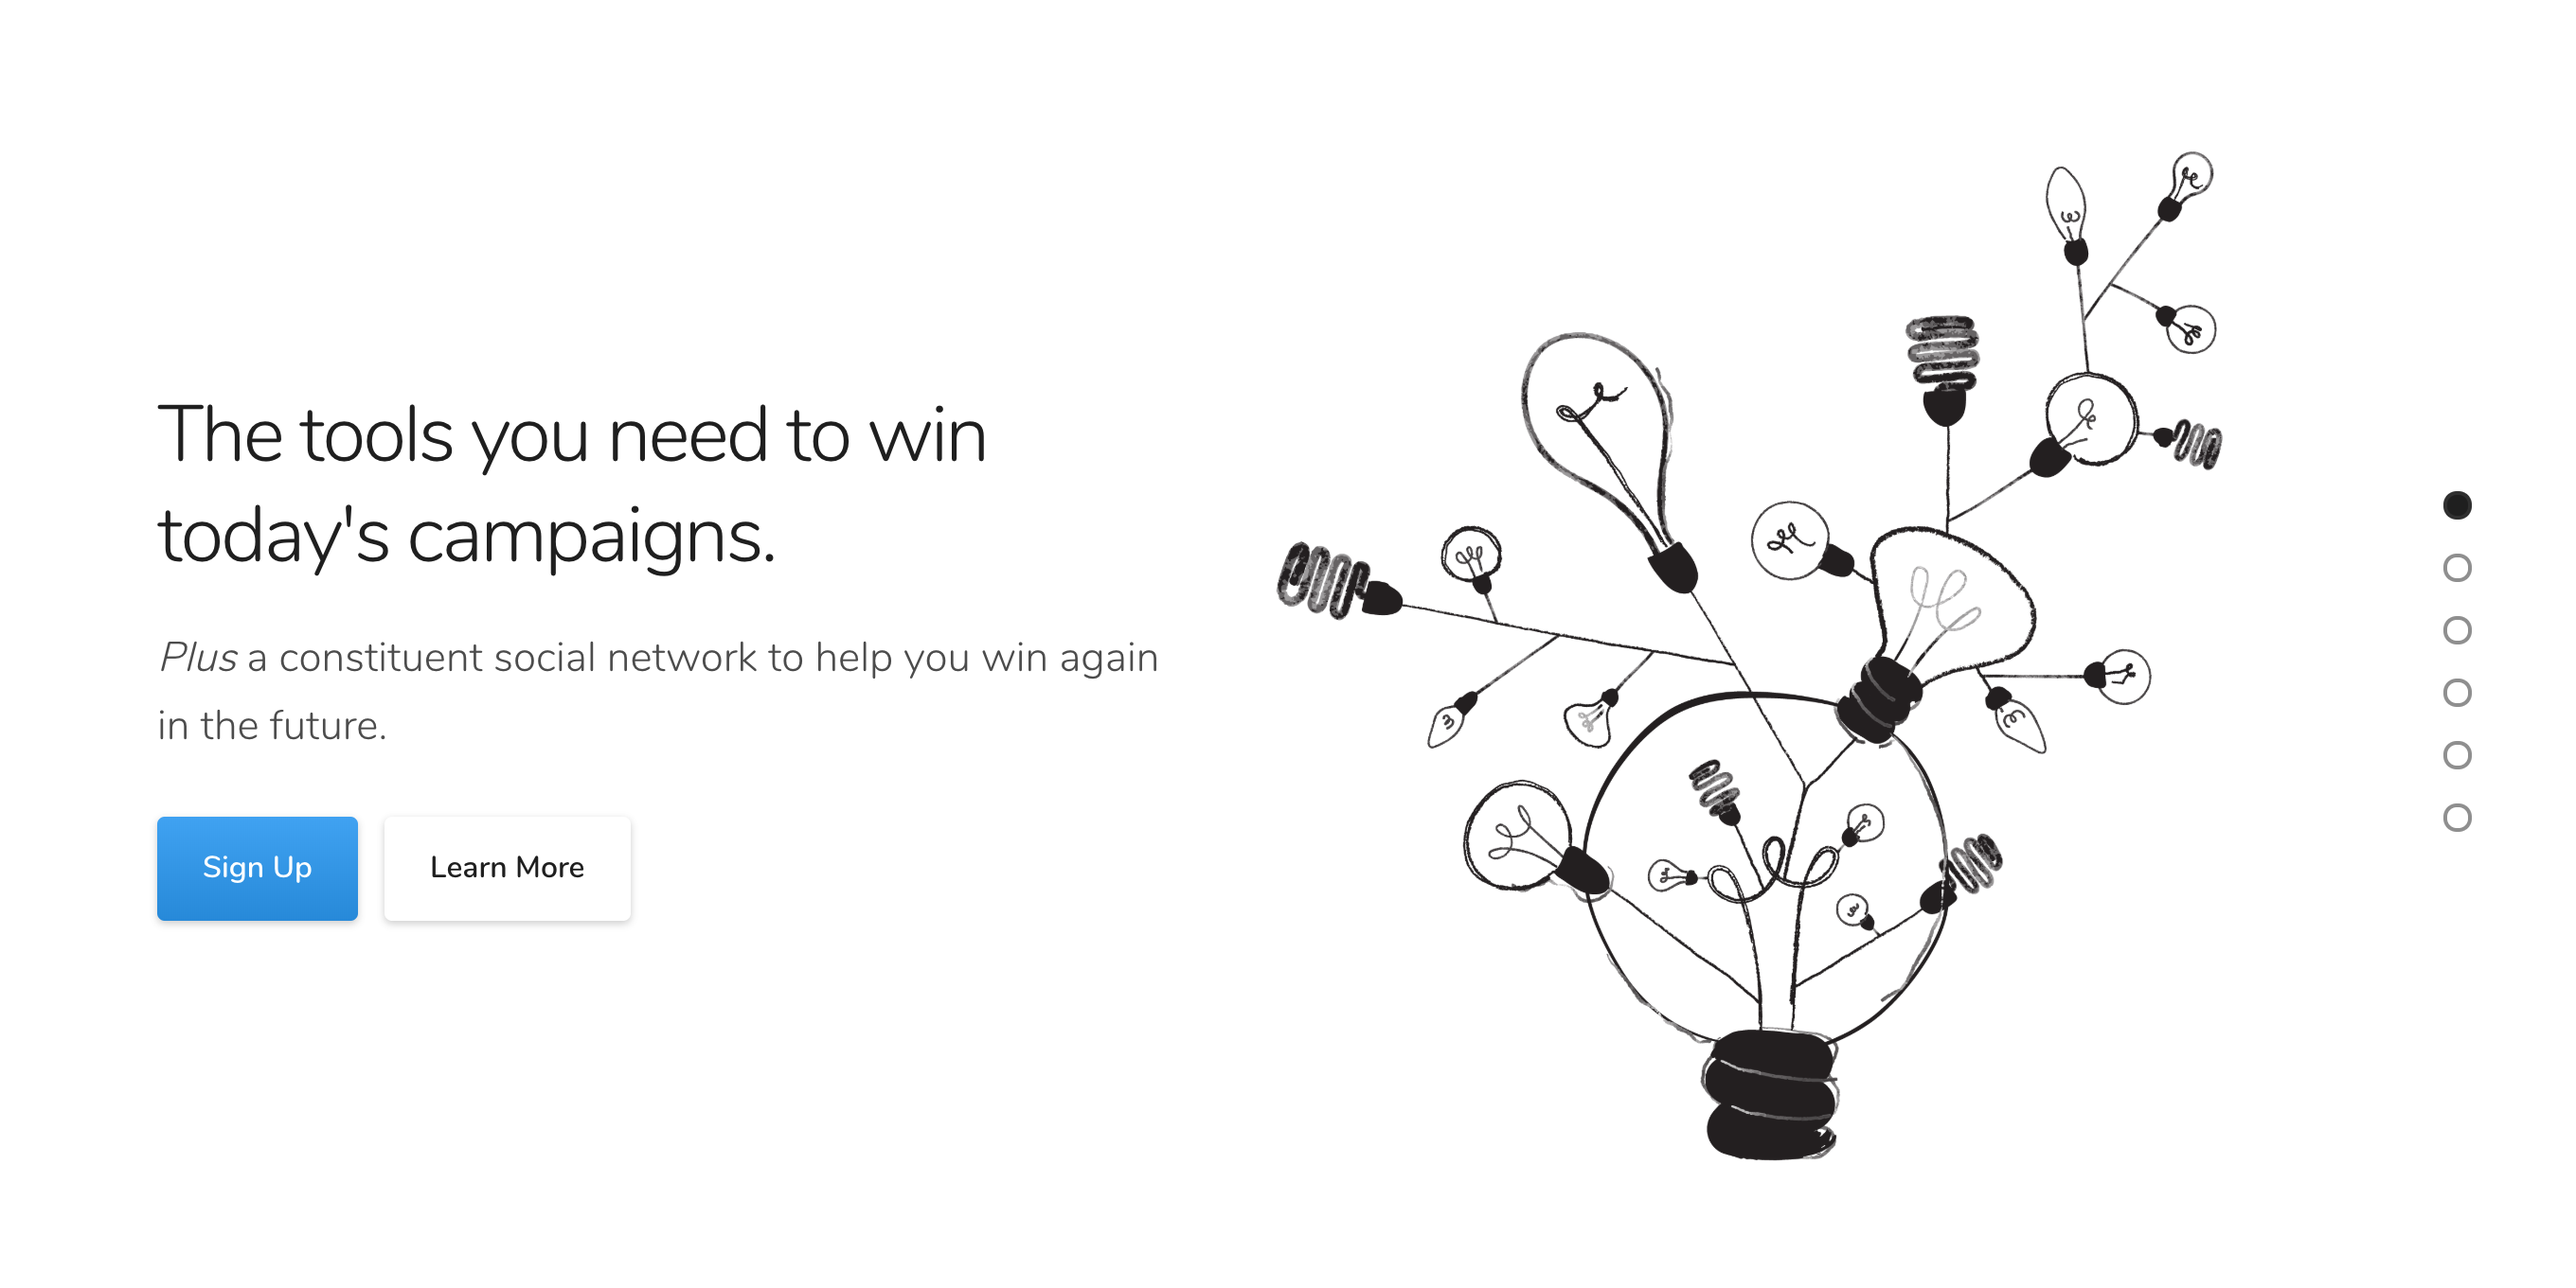
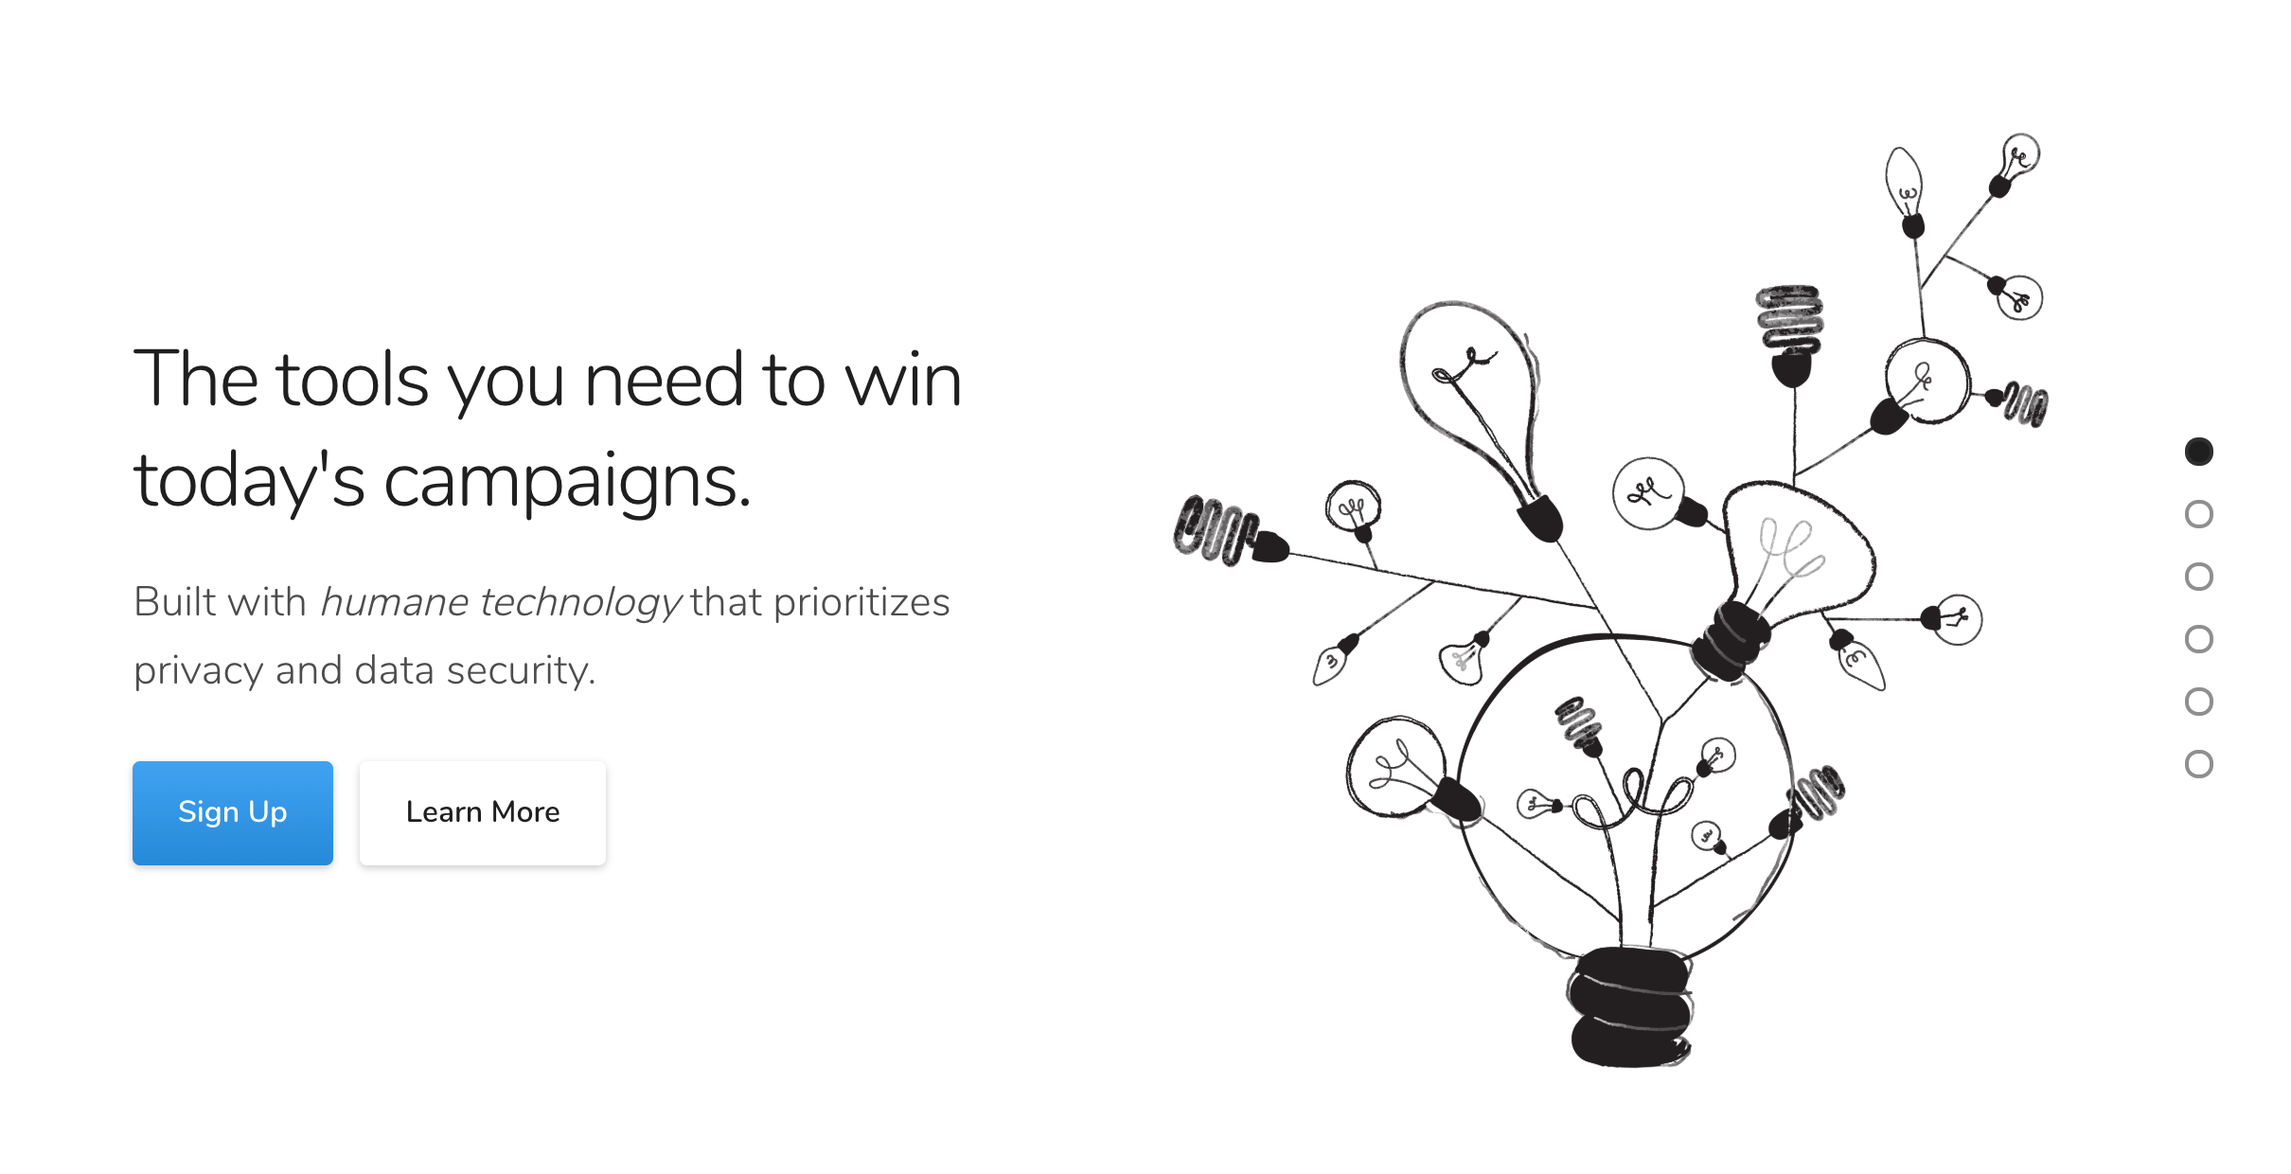
twitter card cleanup

diff --git a/index.html b/index.html
@@ -12,9 +12,9 @@
   <meta name="twitter:card" content="summary_large_image" />
   <meta name="twitter:url" content="https://www.referenda.io" />
   <meta name="twitter:site" content="@stealthyinc" />
-  <meta name="twitter:title" content="Referenda: Political campaign tools for donations and canvassing to win today's elections." />
-  <meta name="twitter:description" content="Referenda is an App and Social Network that brings decentralized and blockchain technologies into the political arena to supercharge political campaigns and create social networks to address the problems of bots and trolls while fostering civilized and authentic comminications between constituents and leaders." />
-  <meta name="twitter:image" content="https://www.referenda.io/assets/homepage.png" />
+  <meta name="twitter:title" content="Referenda: authentic social communications" />
+  <meta name="twitter:description" content="Built with humane technology that prioritizes privacy, data security, & constructive discourse free of bots & trolls." />
+  <meta name="twitter:image" content="https://www.referenda.io/assets/homePage.png" />
 
   <link rel="canonical" href="https://www.referenda.io/">
 
@@ -67,7 +67,7 @@
   </style>
 
   <!-- Page Title -->
-  <title>Referenda - Increasing Political Engagement</title>
+  <title>Referenda - Improving Political Discourse</title>
 
   <!-- Amplitude Scripts -->
   <script src="js/amplitude.js" type="text/javascript"></script>
@@ -403,7 +403,8 @@
           <ul class="flex fixedSpaces verticalCenter reverse">
             <li class="col-6-12 left middle">
               <h1 class="ae-1 fromLeft">The tools you need to win today's campaigns.</h1>
-              <p class="ae-2 fromLeft"><span class="opacity-8"><i>Plus</i> a constituent social network to help you win again in the future.</span></p>
+              <!-- <p class="ae-2 fromLeft"><span class="opacity-8"><i>Plus</i> a constituent social network to help you win again in the future.</span></p> -->
+              <p class="ae-2 fromLeft"><span class="opacity-8">Built with <i>humane technology</i> that prioritizes privacy and data security.</span></p>
               <a class="button blue gradient ae-3 fromCenter cropLeft"
                  onclick="logButtonPress(this, event)"
                  href="#SignUp">Sign Up</a>
@@ -433,7 +434,7 @@
             <li class="col-6-12 fromBottomLeft">
               <!--p class="opacity-6 margin-bottom-2 ae-1"></p-->
               <h1 class="ae-2">Fundraising</h1>
-              <div class="ae-3"><p class="opacity-8">Powerful tools for fundraising anywhere, anytime:</p></div>
+              <div class="ae-3"><p class="opacity-8">Powerful tools to get your campaigns started by helping you fundraise anywhere, anytime:</p></div>
               <ul class="flex">
                 <li class="col-6-12 ae-3">
                   <h3 class="margin-top-3">Collect Donations</h3>

diff --git a/agatha/index.html b/agatha/index.html
@@ -223,8 +223,8 @@
       <div class="wrap">
         <div class="fix-10-12">
           <div class="embedVideo popupContent">
-            <iframe src="https://player.vimeo.com/video/320126718" width="640" height="360" frameborder="0" allow="autoplay; fullscreen" allowfullscreen></iframe>
-            <p><a href="https://vimeo.com/320126718">Filmmaking Reel</a> from <a href="https://vimeo.com/agathabacelar">Agatha Bacelar</a> on <a href="https://vimeo.com">Vimeo</a>.</p>
+            <iframe src="https://player.vimeo.com/video/334744529" width="640" height="360" frameborder="0" allow="autoplay; fullscreen" allowfullscreen></iframe>
+            <p><a href="https://vimeo.com/334744529">Agatha Bacelar is running for Congress (CA-12)</a> from <a href="https://vimeo.com/user98238401">Agatha For Congress</a> on <a href="https://vimeo.com">Vimeo</a>.</p>
           </div>
         </div>
       </div>
@@ -257,9 +257,9 @@
               <h2 class="ae-2 small light margin-bottom-3 opacity-8">Recent Posts</h2>
               <ul class="flex later flex-slide-100">
                 <li class="col-12-12 ae-3 cell-100 rounded margin-bottom-2">
-                  <a class="item-100">
-                    <h3>How much student debt do you have?</h3>
-                    <p class="tiny opacity-6"><i class="material-icons small-watch">access_time</i><span class="date-small">&nbsp;&nbsp;08 Apr 2019</span></p>
+                  <a class="item-100 popupTrigger" data-popup-id="16-1">
+                    <h3>Teachers Planting Seeds</h3>
+                    <p class="tiny opacity-6"><i class="material-icons small-watch">access_time</i><span class="date-small">&nbsp;&nbsp;08 May 2019</span></p>
                   </a>
                 </li>
                 <li class="col-12-12 ae-4 cell-100 rounded margin-bottom-2">
@@ -285,6 +285,22 @@
 </section>
 
 <!-- Popup Gallery -->
+<!-- Popup Video -->
+<div class="popup autoplay" data-popup-id="16-1">
+  <div class="close"><svg><use xmlns:xlink="http://www.w3.org/1999/xlink" xlink:href="#close"></use></svg></div>
+  <div class="content">
+    <div class="container">
+      <div class="wrap">
+        <div class="fix-10-12">
+          <div class="embedVideo popupContent">
+            <iframe src="https://player.vimeo.com/video/334847226" width="640" height="360" frameborder="0" allow="autoplay; fullscreen" allowfullscreen></iframe>
+            <p><a href="https://vimeo.com/334847226">Bertha Vazquez 2</a> from <a href="https://vimeo.com/user98238401">Agatha For Congress</a> on <a href="https://vimeo.com">Vimeo</a>.</p>
+          </div>
+        </div>
+      </div>
+    </div>
+  </div>
+</div>
 <!-- <div class="popup animated" data-popup-id="69">
   <div class="close"><svg><use xmlns:xlink="http://www.w3.org/1999/xlink" xlink:href="#close"></use></svg></div>
   <div class="content">
